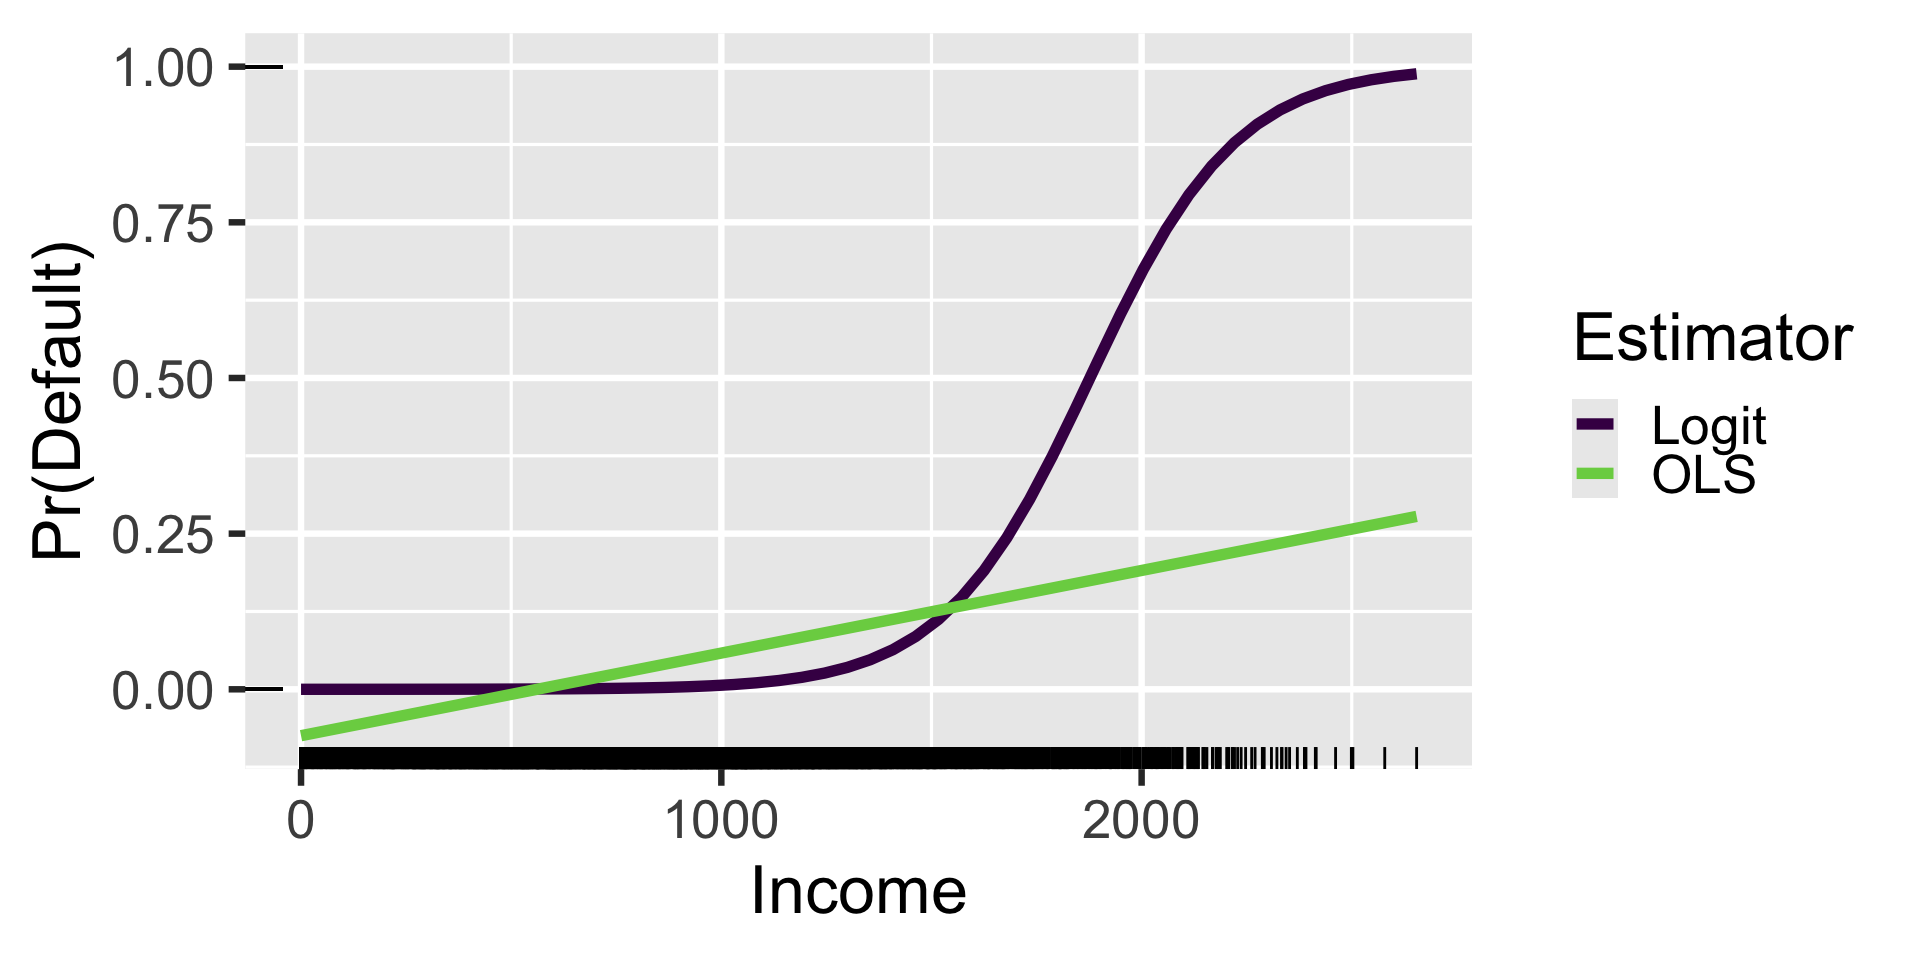
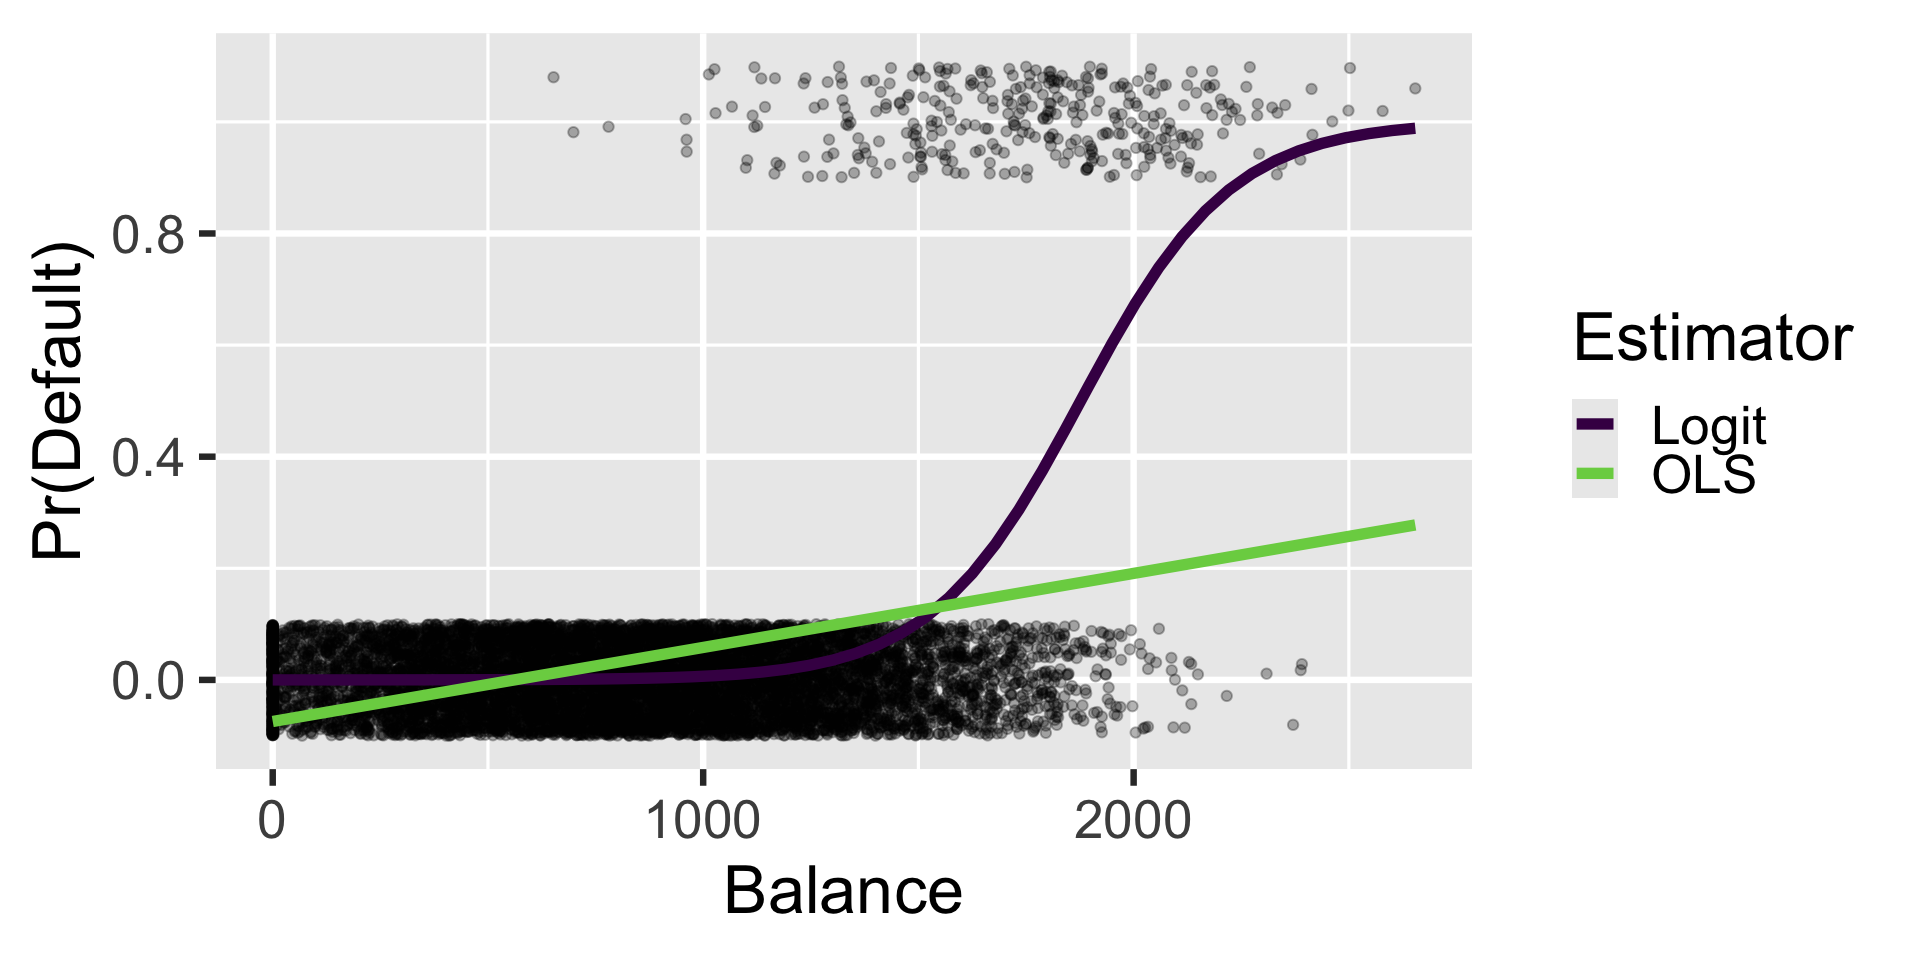
jitter better than rug

diff --git a/slides/week6.html b/slides/week6.html
@@ -768,7 +768,7 @@ default    0    1
 <span id="cb16-18"><a href="" aria-hidden="true" tabindex="-1"></a><span class="co"># Visualize</span></span>
 <span id="cb16-19"><a href="" aria-hidden="true" tabindex="-1"></a><span class="fu">ggplot</span>(Default) <span class="sc">+</span></span>
 <span id="cb16-20"><a href="" aria-hidden="true" tabindex="-1"></a>  <span class="fu">aes</span>(<span class="at">x =</span> balance, <span class="at">y =</span> default01) <span class="sc">+</span></span>
-<span id="cb16-21"><a href="" aria-hidden="true" tabindex="-1"></a>  <span class="fu">geom_rug</span>() <span class="sc">+</span></span>
+<span id="cb16-21"><a href="" aria-hidden="true" tabindex="-1"></a>  <span class="fu">geom_jitter</span>(<span class="at">alpha =</span> <span class="fl">0.3</span>, <span class="at">height =</span> <span class="fl">0.1</span>) <span class="sc">+</span></span>
 <span id="cb16-22"><a href="" aria-hidden="true" tabindex="-1"></a>  <span class="fu">geom_line</span>(</span>
 <span id="cb16-23"><a href="" aria-hidden="true" tabindex="-1"></a>    <span class="at">data =</span> pred_df,</span>
 <span id="cb16-24"><a href="" aria-hidden="true" tabindex="-1"></a>    <span class="fu">aes</span>(<span class="at">x =</span> balance, </span>
@@ -776,7 +776,7 @@ default    0    1
 <span id="cb16-26"><a href="" aria-hidden="true" tabindex="-1"></a>        <span class="at">color =</span> Estimator),</span>
 <span id="cb16-27"><a href="" aria-hidden="true" tabindex="-1"></a>    <span class="at">linewidth =</span> <span class="dv">2</span>) <span class="sc">+</span></span>
 <span id="cb16-28"><a href="" aria-hidden="true" tabindex="-1"></a>  <span class="fu">scale_color_viridis_d</span>(<span class="at">begin =</span> <span class="dv">0</span>, <span class="at">end =</span> <span class="fl">0.8</span>) <span class="sc">+</span></span>
-<span id="cb16-29"><a href="" aria-hidden="true" tabindex="-1"></a>  <span class="fu">labs</span>(<span class="at">x =</span> <span class="st">"Income"</span>,</span>
+<span id="cb16-29"><a href="" aria-hidden="true" tabindex="-1"></a>  <span class="fu">labs</span>(<span class="at">x =</span> <span class="st">"Balance"</span>,</span>
 <span id="cb16-30"><a href="" aria-hidden="true" tabindex="-1"></a>       <span class="at">y =</span> <span class="st">"Pr(Default)"</span>)</span></code><button title="Copy to Clipboard" class="code-copy-button"><i class="bi"></i></button></pre></div>
 </div>
 </div>
